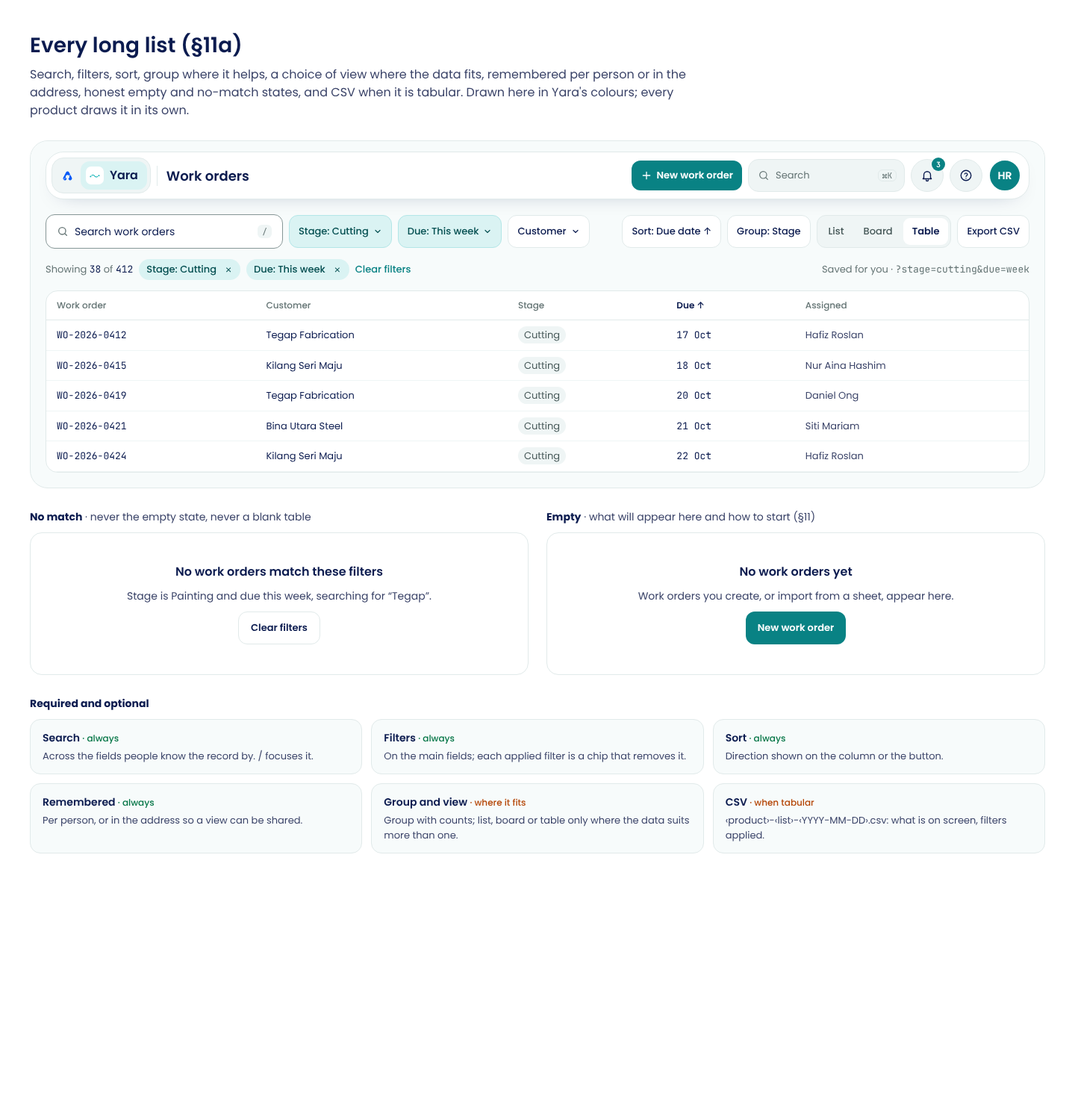
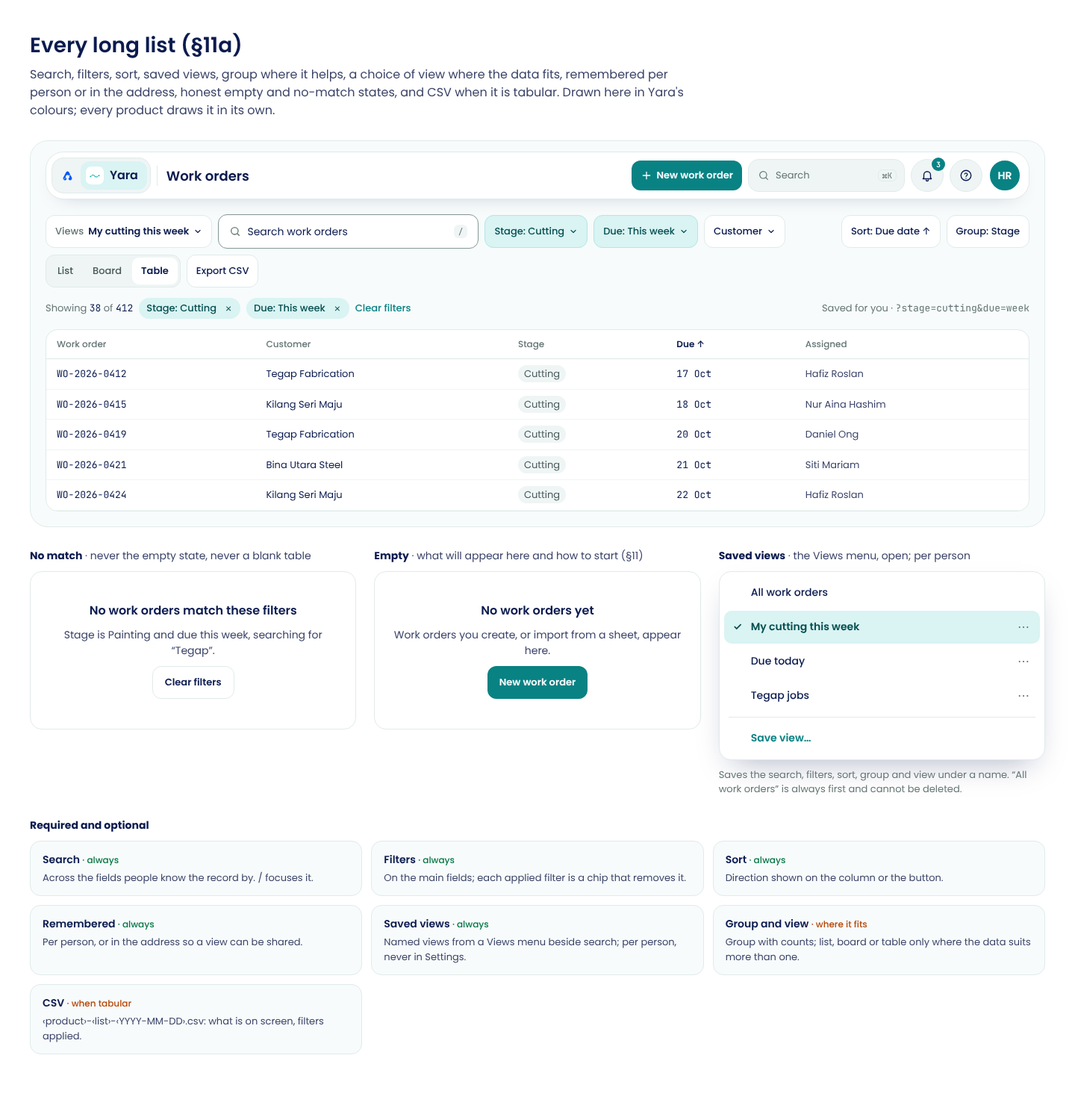
Kit 1.3.0: named saved views on every long list
A person saves a list as it is (search, filters, sort, group and view)
under a name and picks it again from a Views menu beside search; "All
‹records›" comes first and cannot be deleted. Per person, renamed or
deleted from the same menu, never in Settings (owner, 16 Oct 2026;
brand kit guide/10). Completes the list baseline: search, filters, sort
and saved views on every list page.

- app/SPEC.md v1.3: §11a's Saved views row; §19.
- The Lists mock: the Views button and its menu, open; its render and
  values table.
- reference/: ListToolbar takes savedViews; useSavedViews in
  useListState.js keeps them per person and finds the view that matches
  the list as it is; the demo saves, picks, renames and deletes views.
- VERSION 1.3.0, CHANGELOG, version references, Before you ship.

Claude-Session: https://claude.ai/code/session_01F4Ch9HudpBLVqXrXHMSxLg

diff --git a/app/mock/Lists.dc.html b/app/mock/Lists.dc.html
@@ -19,13 +19,14 @@ body{margin:0}
 <div class="axs" style="box-sizing: border-box; width: 100%; padding: 40px; display: flex; flex-direction: column; gap: 28px; font-family: Poppins, ui-sans-serif, system-ui, sans-serif; font-size: 14px; line-height: 1.5; color: #3B4469; background: #FFFFFF">
   <header style="display: flex; flex-direction: column; gap: 6px; max-width: 900px">
     <h1 style="margin: 0; font-size: 28px; font-weight: 600; color: #0B1B4F">Every long list (§11a)</h1>
-    <p style="margin: 0; font-size: 16px">Search, filters, sort, group where it helps, a choice of view where the data fits, remembered per person or in the address, honest empty and no-match states, and CSV when it is tabular. Drawn here in Yara's colours; every product draws it in its own.</p>
+    <p style="margin: 0; font-size: 16px">Search, filters, sort, saved views, group where it helps, a choice of view where the data fits, remembered per person or in the address, honest empty and no-match states, and CSV when it is tabular. Drawn here in Yara's colours; every product draws it in its own.</p>
   </header>
 
   <section aria-label="A list with its tools" style="border-radius: 24px; background: #F7FBFB; border: 1px solid #E1EAEA; overflow: hidden">
     <dc-import name="AppBar" product="Yara" mode="wide" open="none" title="Work orders" hint-size="100%,92px"></dc-import>
     <div style="padding: 20px; display: flex; flex-direction: column; gap: 14px">
       <div role="search" style="display: flex; flex-wrap: wrap; align-items: center; gap: 8px">
+        <button type="button" aria-haspopup="menu" aria-expanded="false" style="display: inline-flex; align-items: center; gap: 6px; height: 44px; padding: 0 12px; border-radius: 12px; border: 1px solid #E1EAEA; background: #FFFFFF; color: #0B1B4F; font-family: inherit; font-size: 13px; font-weight: 600; cursor: pointer"><span style="font-weight: 500; color: #657575">Views</span>My cutting this week<svg aria-hidden="true" width="12" height="12" viewBox="0 0 24 24" fill="none" stroke="currentColor" stroke-width="2.4" stroke-linecap="round"><path d="m6 9 6 6 6-6"></path></svg></button>
         <label style="display: flex; align-items: center; gap: 8px; height: 44px; padding: 0 14px; flex: 1 1 260px; max-width: 360px; border-radius: 12px; background: #FFFFFF; border: 1px solid #869696; color: #0B1B4F">
           <svg aria-hidden="true" width="16" height="16" viewBox="0 0 24 24" fill="none" stroke="#657575" stroke-width="2" stroke-linecap="round"><circle cx="11" cy="11" r="7"></circle><path d="m20 20-3.5-3.5"></path></svg>
           <span style="flex: 1">Search work orders</span><span class="mono" style="font-size: 11px; padding: 1px 6px; border-radius: 6px; background: #EFF5F5; color: #657575">/</span>
@@ -77,7 +78,7 @@ body{margin:0}
     </div>
   </section>
 
-  <div style="display: grid; grid-template-columns: repeat(2, minmax(0, 1fr)); gap: 24px">
+  <div style="display: grid; grid-template-columns: repeat(3, minmax(0, 1fr)); gap: 24px">
     <section aria-label="No match" style="display: flex; flex-direction: column; gap: 10px">
       <span><strong style="color: #0B1B4F">No match</strong> · never the empty state, never a blank table</span>
       <div style="padding: 40px 24px; border-radius: 16px; background: #FFFFFF; border: 1px solid #E1EAEA; display: flex; flex-direction: column; align-items: center; gap: 10px; text-align: center">
@@ -93,6 +94,21 @@ body{margin:0}
         <span>Work orders you create, or import from a sheet, appear here.</span>
         <button type="button" style="height: 44px; padding: 0 16px; border-radius: 12px; border: 0; background: #098284; color: #FFFFFF; font-family: inherit; font-size: 13px; font-weight: 600; cursor: pointer">New work order</button>
       </div>
+    </section>
+    <section aria-label="Saved views" style="display: flex; flex-direction: column; gap: 10px">
+      <span><strong style="color: #0B1B4F">Saved views</strong> · the Views menu, open; per person</span>
+      <div role="menu" aria-label="Views" style="padding: 6px; border-radius: 16px; background: #FFFFFF; border: 1px solid #E1EAEA; box-shadow: 0 18px 40px -18px rgba(11, 27, 79, .35); display: flex; flex-direction: column; gap: 2px">
+        <sc-for list="{{saved}}" as="w" hint-placeholder-count="4">
+          <div role="menuitemradio" aria-checked="{{w.checked}}" style="display: flex; align-items: center; gap: 8px; min-height: 44px; padding: 0 6px 0 12px; border-radius: 10px; background: {{w.bg}}; color: {{w.ink}}; font-weight: {{w.weight}}">
+            <span style="width: 16px; flex: none">{{w.tick}}</span>
+            <span style="flex: 1">{{w.name}}</span>
+            <sc-if value="{{w.own}}" hint-placeholder-val="{{true}}"><button type="button" aria-label="Rename or delete {{w.name}}" style="width: 32px; height: 32px; border: 0; border-radius: 8px; background: transparent; color: #657575; cursor: pointer; font-size: 16px; line-height: 1">⋯</button></sc-if>
+          </div>
+        </sc-for>
+        <div style="height: 1px; margin: 4px 6px; background: #E1EAEA"></div>
+        <a href="#" role="menuitem" style="display: flex; align-items: center; min-height: 44px; padding: 0 12px 0 36px; border-radius: 10px; color: #098284; font-weight: 600">Save view…</a>
+      </div>
+      <span style="font-size: 13px; color: #657575">Saves the search, filters, sort, group and view under a name. “All work orders” is always first and cannot be deleted.</span>
     </section>
   </div>
 
@@ -118,6 +134,12 @@ class Component extends DCLogic {
       filters: [f('Stage: Cutting', true), f('Due: This week', true), f('Customer', false)],
       views: [v('List', false), v('Board', false), v('Table', true)],
       chips: ['Stage: Cutting', 'Due: This week'],
+      saved: [
+        { name: 'All work orders', own: false, checked: 'false', tick: '', bg: 'transparent', ink: '#0B1B4F', weight: '500' },
+        { name: 'My cutting this week', own: true, checked: 'true', tick: '✓', bg: '#DAF3F3', ink: '#044F51', weight: '600' },
+        { name: 'Due today', own: true, checked: 'false', tick: '', bg: 'transparent', ink: '#0B1B4F', weight: '500' },
+        { name: 'Tegap jobs', own: true, checked: 'false', tick: '', bg: 'transparent', ink: '#0B1B4F', weight: '500' }
+      ],
       rows: [
         { id: 'WO-2026-0412', customer: 'Tegap Fabrication', stage: 'Cutting', due: '17 Oct', who: 'Hafiz Roslan' },
         { id: 'WO-2026-0415', customer: 'Kilang Seri Maju', stage: 'Cutting', due: '18 Oct', who: 'Nur Aina Hashim' },
@@ -130,6 +152,7 @@ class Component extends DCLogic {
         { name: 'Filters', when: 'always', tone: '#067647', text: 'On the main fields; each applied filter is a chip that removes it.' },
         { name: 'Sort', when: 'always', tone: '#067647', text: 'Direction shown on the column or the button.' },
         { name: 'Remembered', when: 'always', tone: '#067647', text: 'Per person, or in the address so a view can be shared.' },
+        { name: 'Saved views', when: 'always', tone: '#067647', text: 'Named views from a Views menu beside search; per person, never in Settings.' },
         { name: 'Group and view', when: 'where it fits', tone: '#B54708', text: 'Group with counts; list, board or table only where the data suits more than one.' },
         { name: 'CSV', when: 'when tabular', tone: '#B54708', text: '‹product›-‹list›-‹YYYY-MM-DD›.csv: what is on screen, filters applied.' }
       ]

diff --git a/app/reference/ListToolbar.jsx b/app/reference/ListToolbar.jsx
@@ -1,22 +1,27 @@
+import { useCallback, useEffect, useRef, useState } from 'react';
 import { SearchIcon, CloseIcon } from './icons.jsx';
+import { useMenu } from './useMenu.js';
 
-// The tools every long list offers (SPEC §11a): search, filters on its main fields, sort, group and a choice
-// of view where they fit, CSV when it is tabular, and the applied filters as chips with Clear filters.
+// The tools every long list offers (SPEC §11a): saved views, search, filters on its main fields, sort, group and a
+// choice of view where they fit, CSV when it is tabular, and the applied filters as chips with Clear filters.
 // It draws nothing of the list itself. Pair it with useListState() so the state is remembered, and with
 // NoMatch below when the filters find nothing. Its look is the product's own: restyle .ax-list-* freely.
 //
 //   filters  [{ id: 'stage', label: 'Stage', value, options: [{ value: 'cutting', label: 'Cutting' }] }]
 //   sort     { value, dir: 'asc' | 'desc', options: [{ value: 'due', label: 'Due date' }] }
 //   group    { value, options } or nothing      views ['list', 'board', 'table'] or nothing (one view: no switch)
+//   savedViews  { items: [{ id, name }], current, onPick(id | null), onSave(name), onRename(id, name), onDelete(id) }
+//               from useSavedViews() in useListState.js
 export function ListToolbar({
   noun = 'records', query, onQuery, filters = [], onFilter, sort, onSort, group, onGroup,
-  views, view, onView, onExport, shown, total, onClear,
+  views, view, onView, onExport, shown, total, onClear, savedViews,
 }) {
   const applied = filters.filter((f) => f.value);
   const name = (f) => f.options.find((o) => o.value === f.value)?.label ?? f.value;
   return (
     <div className="ax-list-tools">
       <div className="ax-list-toolbar" role="search">
+        {savedViews ? <SavedViews noun={noun} {...savedViews} /> : null}
         <label className="ax-list-search">
           <SearchIcon />
           <input type="search" value={query} onChange={(e) => onQuery(e.target.value)} placeholder={`Search ${noun}`} aria-label={`Search ${noun}`} />
@@ -75,6 +80,79 @@ export function ListToolbar({
         </div>
       ) : null}
     </div>
+  );
+}
+
+// Named saved views (SPEC §11a): a Views menu first in the toolbar. "All ‹records›" comes first and cannot be
+// deleted; then the person's own views, each renamed or deleted from its ⋯; Save view… names the list as it is.
+function SavedViews({ noun, items = [], current = null, onPick, onSave, onRename, onDelete }) {
+  const [open, setOpen] = useState(false);
+  const [mode, setMode] = useState(null); // null, { kind: 'save' }, { kind: 'rename' | 'actions' | 'delete', id }
+  const [draft, setDraft] = useState('');
+  const buttonRef = useRef(null);
+  const close = useCallback(() => { setOpen(false); setMode(null); }, []);
+  const menuRef = useMenu(open && !(mode && (mode.kind === 'save' || mode.kind === 'rename')), close, buttonRef);
+  // after a save, rename or delete, focus goes back into the menu, so the keys and Escape still work
+  useEffect(() => {
+    if (open && !mode) menuRef.current?.querySelector('[role="menuitemradio"][aria-checked="true"], [role="menuitemradio"]')?.focus();
+  }, [open, mode, menuRef, items.length]);
+  const all = `All ${noun}`;
+  const label = items.find((v) => v.id === current)?.name ?? all;
+  const pick = (id) => { onPick?.(id); close(); buttonRef.current?.focus(); };
+  const submit = (e) => {
+    e.preventDefault();
+    const name = draft.trim();
+    if (!name) return;
+    if (mode.kind === 'save') onSave?.(name); else onRename?.(mode.id, name);
+    setMode(null); setDraft('');
+  };
+  const form = (
+    <form className="ax-views-form" onSubmit={submit}>
+      <input autoFocus value={draft} onChange={(e) => setDraft(e.target.value)} aria-label="Name this view" placeholder="Name this view"
+        onKeyDown={(e) => { if (e.key === 'Escape') { e.preventDefault(); setMode(null); } }} />
+      <button type="submit" className="ax-menu-confirm">Save</button>
+    </form>
+  );
+  return (
+    <span className="ax-anchor">
+      <button ref={buttonRef} type="button" className="ax-list-button ax-views-button" aria-haspopup="menu" aria-expanded={open}
+        onClick={() => (open ? close() : setOpen(true))}>
+        <span className="ax-views-label">Views</span>{label}
+      </button>
+      {open ? (
+        <div ref={menuRef} role="menu" aria-label="Views" className="ax-menu ax-menu-views">
+          <button type="button" role="menuitemradio" aria-checked={current == null} className="ax-menu-item ax-menu-row ax-views-item" onClick={() => pick(null)}>
+            <span>{all}</span>
+          </button>
+          {items.map((v) => (
+            <div key={v.id} className="ax-views-own">
+              {mode?.kind === 'rename' && mode.id === v.id ? form : (
+                <button type="button" role="menuitemradio" aria-checked={current === v.id} className="ax-menu-item ax-menu-row ax-views-item" onClick={() => pick(v.id)}>
+                  <span>{v.name}</span>
+                </button>
+              )}
+              {mode?.kind === 'actions' && mode.id === v.id ? (
+                <span className="ax-views-actions">
+                  <button type="button" role="menuitem" className="ax-menu-item" onClick={() => { setDraft(v.name); setMode({ kind: 'rename', id: v.id }); }}>Rename</button>
+                  <button type="button" role="menuitem" className="ax-menu-item" onClick={() => setMode({ kind: 'delete', id: v.id })}>Delete</button>
+                </span>
+              ) : mode?.kind === 'delete' && mode.id === v.id ? (
+                <span className="ax-views-actions">
+                  <button type="button" role="menuitem" className="ax-menu-confirm" onClick={() => { onDelete?.(v.id); setMode(null); }}>Delete “{v.name}”</button>
+                  <button type="button" role="menuitem" className="ax-menu-item" onClick={() => setMode(null)}>Cancel</button>
+                </span>
+              ) : mode?.kind === 'rename' && mode.id === v.id ? null : (
+                <button type="button" role="menuitem" className="ax-views-more" aria-label={`Rename or delete ${v.name}`} onClick={() => setMode({ kind: 'actions', id: v.id })}>⋯</button>
+              )}
+            </div>
+          ))}
+          <div className="ax-views-divider" />
+          {mode?.kind === 'save' ? form : (
+            <button type="button" role="menuitem" className="ax-menu-item ax-views-save" onClick={() => { setDraft(''); setMode({ kind: 'save' }); }}>Save view…</button>
+          )}
+        </div>
+      ) : null}
+    </span>
   );
 }
 

diff --git a/app/reference/shell.css b/app/reference/shell.css
@@ -157,3 +157,20 @@
 .ax-list-chip { display: inline-flex; align-items: center; gap: 4px; height: 28px; padding: 0 4px 0 10px; border-radius: 999px; background: var(--shell-subtle-tint); color: var(--shell-on-tint); font-weight: 500; }
 .ax-list-chip button { width: 24px; height: 24px; display: flex; align-items: center; justify-content: center; border: 0; border-radius: 999px; background: transparent; color: inherit; cursor: pointer; }
 .ax-list-nomatch { display: flex; flex-direction: column; align-items: center; gap: 10px; padding: 40px 24px; text-align: center; }
+/* saved views (SPEC §11a): the Views button and its menu */
+.ax-views-button { display: inline-flex; align-items: center; gap: 6px; font-weight: 600; }
+.ax-views-label { font-weight: 500; opacity: .7; }
+.ax-menu-views { top: calc(100% + 6px); left: 0; right: auto; width: var(--shell-menu-width-account); }
+.ax-views-item { justify-content: flex-start; gap: 8px; padding-left: 36px; position: relative; }
+.ax-views-item[aria-checked="true"] { background: var(--shell-subtle-tint); color: var(--shell-on-tint); font-weight: 600; }
+.ax-views-item[aria-checked="true"]::before { content: "✓"; position: absolute; left: 14px; }
+.ax-views-own { display: flex; flex-wrap: wrap; align-items: center; gap: 4px; }
+.ax-views-own > .ax-views-item, .ax-views-own > .ax-views-form { flex: 1; min-width: 0; }
+.ax-views-more { width: 32px; height: 32px; flex: none; border: 0; border-radius: 8px; background: transparent; color: inherit; opacity: .7; font: inherit; cursor: pointer; }
+.ax-views-more:hover, .ax-views-more:focus-visible { background: var(--shell-hover); opacity: 1; }
+.ax-views-actions { display: flex; gap: 4px; flex: 1 0 100%; padding: 0 4px 4px 32px; box-sizing: border-box; }
+.ax-views-divider { height: 1px; margin: 4px 6px; background: var(--shell-line); }
+.ax-views-save { color: var(--shell-action); font-weight: 600; padding-left: 36px; }
+.ax-views-form { display: flex; gap: 6px; padding: 4px; }
+.ax-views-form input { flex: 1; min-width: 0; height: 44px; box-sizing: border-box; padding: 0 12px; border-radius: 10px; border: 1px solid var(--shell-line); background: var(--shell-surface); color: inherit; font: inherit; }
+.ax-views-actions .ax-menu-confirm { flex: 1; min-width: 0; white-space: nowrap; overflow: hidden; text-overflow: ellipsis; }

diff --git a/app/reference/useListState.js b/app/reference/useListState.js
@@ -29,6 +29,30 @@ export function useListState({ list, person, defaults }) {
   return [state, set, reset];
 }
 
+// A person's named saved views of one list (SPEC §11a), kept per person in this browser. A product that has
+// accounts on a server should keep them there instead, so they follow the person between devices.
+// `current` is the view that matches the list as it is now, or null for "All ‹records›".
+//
+//   const views = useSavedViews({ list: 'work-orders', person: user.id, state, defaults });
+//   <ListToolbar savedViews={{ ...views, onPick: (id) => set(views.stateOf(id)) }} … />
+export function useSavedViews({ list, person, state, defaults }) {
+  const storeKey = `ax-views:${person}:${list}`;
+  const [items, setItems] = useState(() => {
+    if (typeof window === 'undefined') return [];
+    try { return JSON.parse(localStorage.getItem(storeKey) || '[]'); } catch { return []; }
+  });
+  useEffect(() => {
+    try { localStorage.setItem(storeKey, JSON.stringify(items)); } catch { /* private mode: views last for this visit */ }
+  }, [items, storeKey]);
+  const same = (a, b) => Object.keys(defaults).every((k) => String(a?.[k] ?? '') === String(b?.[k] ?? ''));
+  const current = items.find((v) => same(v.state, state))?.id ?? null;
+  const onSave = useCallback((name) => setItems((xs) => [...xs, { id: `v${Date.now().toString(36)}`, name, state }]), [state]);
+  const onRename = useCallback((id, name) => setItems((xs) => xs.map((v) => (v.id === id ? { ...v, name } : v))), []);
+  const onDelete = useCallback((id) => setItems((xs) => xs.filter((v) => v.id !== id)), []);
+  const stateOf = (id) => (id == null ? defaults : { ...defaults, ...items.find((v) => v.id === id)?.state });
+  return { items: items.map(({ id, name }) => ({ id, name })), current, onSave, onRename, onDelete, stateOf };
+}
+
 // CSV as SPEC §11a asks: UTF-8, ISO dates, plain numbers, currency in its own column, what is on screen.
 export function csvName(product, list, date = new Date()) {
   return `${product}-${list}-${date.toISOString().slice(0, 10)}.csv`;

diff --git a/app/reference/demo/demo.jsx b/app/reference/demo/demo.jsx
@@ -2,7 +2,7 @@
 // Build: npx esbuild demo.jsx --bundle --outfile=demo.js --jsx=automatic --loader:.js=jsx  (needs react and react-dom)
 import { createRoot } from 'react-dom/client';
 import { useMemo, useState } from 'react';
-import { AppBar, useBarSize, ListToolbar, NoMatch, useListState, toCsv, csvName, downloadCsv } from '../index.js';
+import { AppBar, useBarSize, ListToolbar, NoMatch, useListState, useSavedViews, toCsv, csvName, downloadCsv } from '../index.js';
 
 const PRODUCTS = {
   yara: { name: 'Yara', mark: 'yara.svg', list: 'work-orders', noun: 'work orders', slot: 'New work order' },
@@ -29,6 +29,7 @@ function Demo() {
   const size = useBarSize();
   const assets = '../../mock/assets/';
   const [list, set, reset] = useListState({ list: p.list, person: 'demo', defaults: DEFAULTS });
+  const views = useSavedViews({ list: p.list, person: 'demo', state: list, defaults: DEFAULTS });
   const rows = useMemo(() => ROWS
     .filter((r) => (!list.q || (r.id + r.customer).toLowerCase().includes(list.q.toLowerCase())) && (!list.stage || r.stage === list.stage))
     .sort((a, b) => (list.dir === 'asc' ? 1 : -1) * a[list.sort === 'due' ? 'due' : 'id'].localeCompare(b[list.sort === 'due' ? 'due' : 'id'])), [list]);
@@ -57,6 +58,7 @@ function Demo() {
         <section className="list">
           <ListToolbar
             noun={p.noun} query={list.q} onQuery={(q) => set({ q })}
+            savedViews={{ ...views, onPick: (id) => set(views.stateOf(id)) }}
             filters={[{ id: 'stage', label: 'Stage', value: list.stage, options: STAGES }]} onFilter={(id, v) => set({ [id]: v })}
             sort={{ value: list.sort, dir: list.dir, options: [{ value: 'due', label: 'Due date' }, { value: 'id', label: 'Number' }] }} onSort={(s) => set({ sort: s.value, dir: s.dir })}
             views={['list', 'table']} view={list.view} onView={(view) => set({ view })}

diff --git a/app/reference/index.js b/app/reference/index.js
@@ -4,5 +4,5 @@ export { RoundControl } from './RoundControl.jsx';
 export { HelpMenu } from './HelpMenu.jsx';
 export { AccountMenu, AccountButton } from './AccountMenu.jsx';
 export { ListToolbar, NoMatch } from './ListToolbar.jsx';
-export { useListState, toCsv, csvName, downloadCsv } from './useListState.js';
+export { useListState, useSavedViews, toCsv, csvName, downloadCsv } from './useListState.js';
 export { useMenu } from './useMenu.js';

diff --git a/app/SPEC.md b/app/SPEC.md
@@ -1,6 +1,6 @@
 # The AntaraX shell for customer apps
 
-**Version 1.2, the standard (owner, 16 Oct 2026; Dashboard kit 1.2.0).** Every AntaraX customer app is built inside this shell; everything it does not name is the product's own. A new shared element is added here first, with the owner's decision, and never invented inside one product. 1.1 added logo, loading and motion (§12), the customer's own admin area (§13), the standards beneath the look (§15) and what never to do (§16). 1.2 makes the floating bar the default with exact values (§2.2), makes the current navigation item shared (§2.5), adds a baseline for long lists (§11a), and adds what a builder measures against: tokens (`app/tokens.css`), reference components (`reference/`), PNG renders of every mock with their values, and a conformance check (§17).
+**Version 1.3, the standard (owner, 16 Oct 2026; Dashboard kit 1.3.0).** Every AntaraX customer app is built inside this shell; everything it does not name is the product's own. A new shared element is added here first, with the owner's decision, and never invented inside one product. 1.1 added logo, loading and motion (§12), the customer's own admin area (§13), the standards beneath the look (§15) and what never to do (§16). 1.2 makes the floating bar the default with exact values (§2.2), makes the current navigation item shared (§2.5), adds a baseline for long lists (§11a), and adds what a builder measures against: tokens (`app/tokens.css`), reference components (`reference/`), PNG renders of every mock with their values, and a conformance check (§17). 1.3 adds named saved views to every long list (§11a).
 
 **The rule (owner, 15 Oct 2026).** AXLE is the same in every product ([axle/](../axle/README.md)). A customer app is the opposite: each product has its own identity, shape, theme and UI. A small shell is the exception. It stays the same in every product so that a customer who uses two AntaraX products, or moves from one to another, always finds the same things in the same places:
 
@@ -312,6 +312,7 @@ Any list that can grow past one screen (work orders, stock, invoices, members, r
 | **Group** | Where it helps | By status, owner, customer or date, with counts |
 | **View** | Where the data fits | List, board or table. A choice only where the data really suits more than one |
 | **Remembered** | Always | Per person, or kept in the address so a view can be shared. Coming back finds the list as it was left. Views are chosen on the page, never in Settings |
+| **Saved views** | Always | A person can save the list as it is (search, filters, sort, group and view) under a name, and pick it again from a **Views** menu beside search. The menu starts with "All ‹records›", which cannot be deleted, then their own views; **Save view…** names the current one, and each view is renamed or deleted from the same menu. A saved view is per person; its address can still be shared. Chosen on the page, never in Settings |
 | **Empty** | Always | Says what will appear and how to start (§11) |
 | **No match** | Always | "No work orders match these filters", with Clear filters. Never the empty state, never a blank table |
 | **CSV export** | When it is tabular | What is on screen, filters applied: `‹product›-‹list›-‹YYYY-MM-DD›.csv`, UTF-8, ISO dates, plain numbers, currency in its own column. Hidden figures stay hidden (§16) |
@@ -590,5 +591,7 @@ All decided by the owner on 15 Oct 2026:
   - the current navigation item and hover are shared (§2.5); navigation's shape stays the product's own;
   - a baseline for long lists (§11a), a customer version of AXLE §9;
   - mocks readable off the canvas, reference components, a conformance check, a gap table before any work, and one kit version that products pin (§17, `README.md`).
+
+- **16 Oct 2026, v1.3:** every long list has named saved views, per person, from a Views menu beside search (§11a). It completes the owner's list baseline (search, filters, sort and saved views on every list page, brand kit guide/10).
 
 New questions go here.

diff --git a/README.md b/README.md
@@ -2,14 +2,14 @@
 
 The standard dashboards for everything REKA builds: AntaraX products, REKA's client projects, and the AXLE console both share. It sits beside the [AntaraX brand kit](https://github.com/haziqfaris/AntaraX-brand-kit), which stays the source of truth for names, colour, type and the AntaraX layer.
 
-**Version 1.2.1** ([CHANGELOG](CHANGELOG.md)). Products pin the version they built against in `antarax-kit.lock` ([how](app/README.md#pin-the-kit)).
+**Version 1.3.0** ([CHANGELOG](CHANGELOG.md)). Products pin the version they built against in `antarax-kit.lock` ([how](app/README.md#pin-the-kit)).
 
 ## Where it stands
 
 | Step | What | State |
 |---|---|---|
 | 1 | Inventory of every product's navigation and dashboards, with screenshots | Done: [inventory/](inventory/README.md), browsable in [inventory/gallery.html](inventory/gallery.html) |
-| 2 | The AntaraX shell for customer apps | **The standard, v1.2 (16 Oct 2026).** Start with [app/README.md](app/README.md); spec [app/SPEC.md](app/SPEC.md), tokens [app/tokens.css](app/tokens.css), mock and PNG renders [app/mock/](app/mock/README.md), reference components [app/reference/](app/reference/README.md), conformance check `tools/check-shell.mjs`. Each product's app is its own; only the shell is shared: names, the top bar (account at the far right, Help its own button), the account menu, standard pages, getting in, banners, notifications, Assist, feedback, dialogs and errors |
+| 2 | The AntaraX shell for customer apps | **The standard, v1.3 (16 Oct 2026).** Start with [app/README.md](app/README.md); spec [app/SPEC.md](app/SPEC.md), tokens [app/tokens.css](app/tokens.css), mock and PNG renders [app/mock/](app/mock/README.md), reference components [app/reference/](app/reference/README.md), conformance check `tools/check-shell.mjs`. Each product's app is its own; only the shell is shared: names, the top bar (account at the far right, Help its own button), the account menu, standard pages, getting in, banners, notifications, Assist, feedback, dialogs and errors |
 | 2a | REKA client projects | **The standard, v1.0 (16 Oct 2026).** Start with [project/README.md](project/README.md); spec [project/SPEC.md](project/SPEC.md), mock [project/mock/](project/mock/README.md). The client's brand on a neutral base, never AntaraX's look; the shell's places; "Built by REKA" in the footer; one stack (Next.js, shadcn/ui, Supabase) |
 | 2b | Tickets and feedback | In YaraOne, for products and projects alike: [yaraone/EMBEDS.md](yaraone/EMBEDS.md). Embed contract v1.0, settled with YaraOne (its docs/19); YaraOne is building it |
 | 2c | Capacity | Every product and project lists what it runs on, every limit and how it is measured in `capacity.json`; AXLE → R8 → Capacity shows how close each is and when it runs out. Any provider, any kind of infrastructure: [capacity/README.md](capacity/README.md), check with `python3 capacity/check.py` |

diff --git a/app/README.md b/app/README.md
@@ -4,7 +4,7 @@ Every AntaraX customer app is the product's own: its identity, colours, shape, n
 
 | File | What it is |
 |---|---|
-| [SPEC.md](SPEC.md) | The shell, v1.2: what is shared, its exact sizes, the standards beneath the look, what never to do, and that everything else is the product's own |
+| [SPEC.md](SPEC.md) | The shell, v1.3: what is shared, its exact sizes, the standards beneath the look, what never to do, and that everything else is the product's own |
 | [tokens.css](tokens.css) | Every size and colour slot of the bar, for every product, light and dark. Generated from the brand kit: never edit, never retype |
 | [mock/](mock/README.md) | The shell drawn in six products' own colours, as a canvas and as PNG renders (`mock/renders/`), with a values table beside each mock |
 | [reference/](reference/README.md) | The bar, its menus and the list toolbar in plain React and CSS variables |
@@ -48,7 +48,7 @@ Open the closest product's render (`mock/renders/AppBar-<product>-wide.png` and 
 - [ ] Its screenshots in `compare.html` look like the reference PNGs, apart from the differences in your lock.
 - [ ] Help's six items and the account menu are in §2.1's and §3's order; Sign out asks first.
 - [ ] The current navigation item is on the subtle tint with on-tint text, and hover looks different (§2.5).
-- [ ] The longest list has search, filters, sort, honest empty and no-match states, CSV if tabular, and survives a reload (§11a).
+- [ ] The longest list has search, filters, sort, saved views, honest empty and no-match states, CSV if tabular, and survives a reload (§11a).
 - [ ] At 390px, Help and the account are one tap away on every page, and nothing in the bar overlaps.
 - [ ] No uppercase labels, and none of brand kit 13 §1's banned words.
 - [ ] `antarax-kit.lock` names this kit's version and commit, and every exception has a reason.

diff --git a/AGENTS.md b/AGENTS.md
@@ -12,7 +12,7 @@ Any work on a product's AXLE uses the template in `axle/`; that includes a new p
 
 ## When working in another repository on a customer app
 
-A product's customer app is its own: identity, shape, theme and UI (owner, 15 Oct 2026). Only the AntaraX shell is shared: the words, the top bar, where Help and the account sit, the account menu, and the standard pages. Follow `app/README.md` and `app/SPEC.md` (v1.2, the standard). Everything the spec does not name is the product's own; a new shared rule goes into the spec first, never into one product.
+A product's customer app is its own: identity, shape, theme and UI (owner, 15 Oct 2026). Only the AntaraX shell is shared: the words, the top bar, where Help and the account sit, the account menu, and the standard pages. Follow `app/README.md` and `app/SPEC.md` (v1.3, the standard). Everything the spec does not name is the product's own; a new shared rule goes into the spec first, never into one product.
 
 - **Before planning, write a gap table** (owner, 16 Oct 2026). Open the closest product's mock PNG (`app/mock/renders/AppBar-<product>-wide.png` and `-phone.png`, and the board for the page) and its `.values.md`. List every difference between the product, the mock and the spec, with what you will do about each. Where the spec says "the product's own", say what the product chose and why. Put the table in your plan before any code.
 - **Take values from `app/tokens.css`**, never from prose or by measuring a mock by eye. `app/reference/` shows them built.

diff --git a/app/mock/Lists.values.md b/app/mock/Lists.values.md
@@ -1,4 +1,4 @@
-<!-- values for Lists.dc.html, source 0bd35f58eba78e20 -->
+<!-- values for Lists.dc.html, source 2ea01e84e86eb6c8 -->
 Every number below is read from the mock. **Shell** rows must match in every product (SPEC section in brackets); **own** rows are how this board draws the product's own side, an example and not a rule. Colours are the product's palette slots (`app/tokens.css`).
 
 | Part | Value | Kind |
@@ -11,5 +11,7 @@ Every number below is read from the mock. **Shell** rows must match in every pro
 | View | segmented List · Board · Table, 36px inside 3px padding on `well` | Where the data fits |
 | Export CSV | 44px button; `‹product›-‹list›-‹YYYY-MM-DD›.csv` | When tabular |
 | Remembered | "Saved for you" and the address, mono 12px | Required |
+| Views button | 44px, radius 12px, 13px / 600, "Views" muted before the current view's name, caret; first in the toolbar | Required (§11a); look own |
+| Views menu | radius 16px, padding 6px, menu shadow (`app/tokens.css`); items 44px, radius 10px; current: `subtle-tint` with `on-tint`, ✓; ⋯ 32px on the person's own views; "Save view…" in `action` text, after a 1px `line` divider | Required (§11a); look own |
 | Table | radius 16px, header 12px muted, rows 13px, ids and dates mono | Own |
 | No match / Empty | 16px / 600 title, a line, one 44px button | Required (§11a, §11) |

diff --git a/BRIEF.md b/BRIEF.md
@@ -4,7 +4,7 @@
 
 **Client projects are different again:** the client's brand, never AntaraX's look, with the shell's places and "Built by REKA" in the footer. Start with [project/README.md](project/README.md). Their AXLE is this same AXLE.
 
-**Customer apps are different:** each product's own, apart from the AntaraX shell (top bar with Help and the account at the right, the account menu, standard pages under `/settings`, shared roles and moments). Start with [app/README.md](app/README.md); spec v1.2: the bar's exact sizes are tokens (`app/tokens.css`), every mock is rendered to PNG, and `tools/check-shell.mjs` measures a product against them. Products pin the kit version in `antarax-kit.lock` ([CHANGELOG](CHANGELOG.md)).
+**Customer apps are different:** each product's own, apart from the AntaraX shell (top bar with Help and the account at the right, the account menu, standard pages under `/settings`, shared roles and moments). Start with [app/README.md](app/README.md); spec v1.3: the bar's exact sizes are tokens (`app/tokens.css`), every mock is rendered to PNG, and `tools/check-shell.mjs` measures a product against them. Products pin the kit version in `antarax-kit.lock` ([CHANGELOG](CHANGELOG.md)).
 
 ## How to use it in another chat
 
